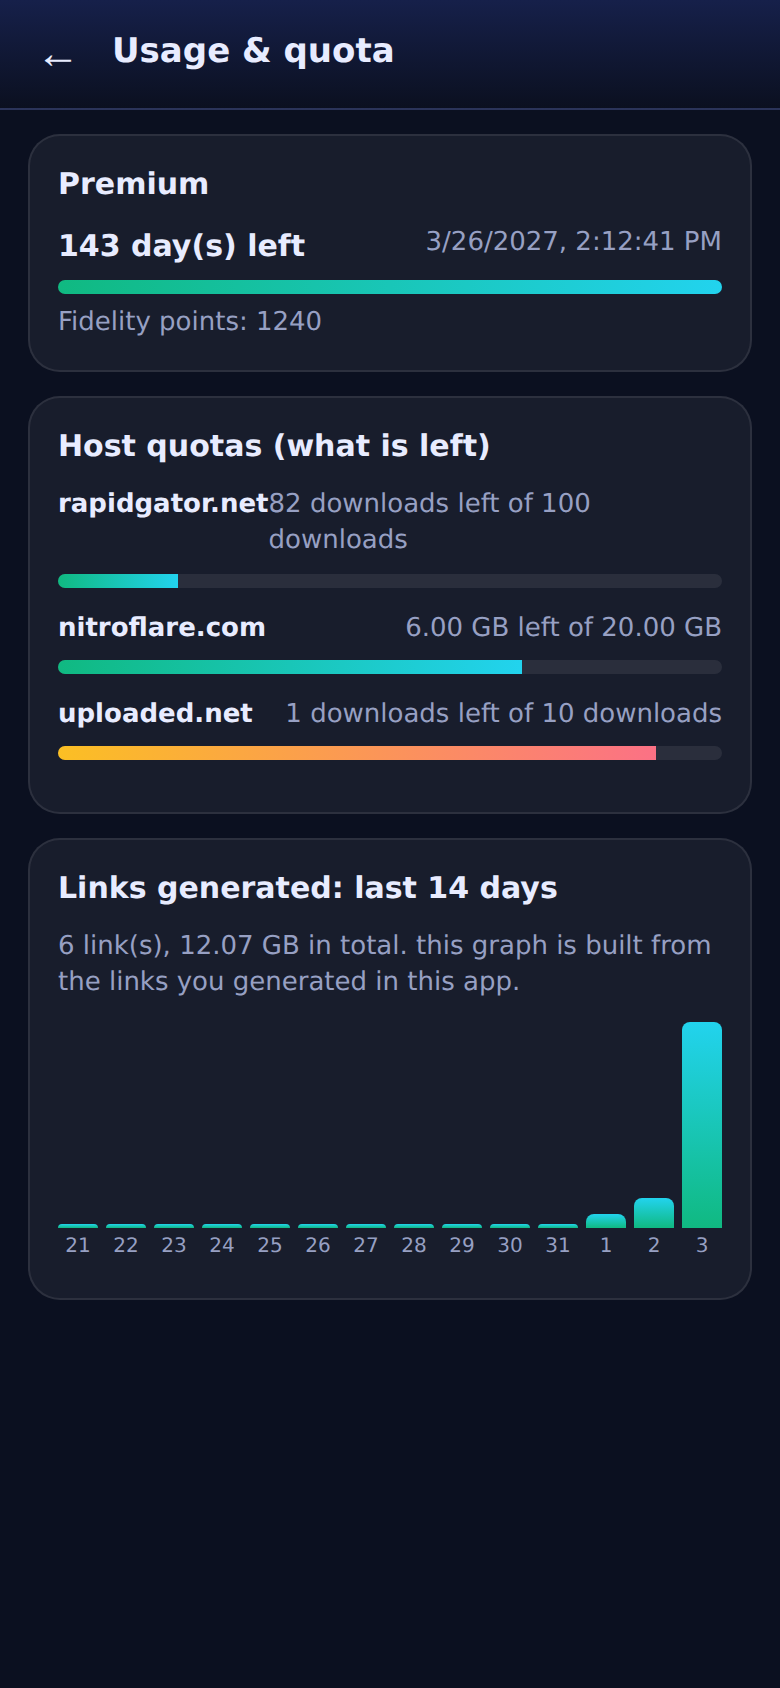
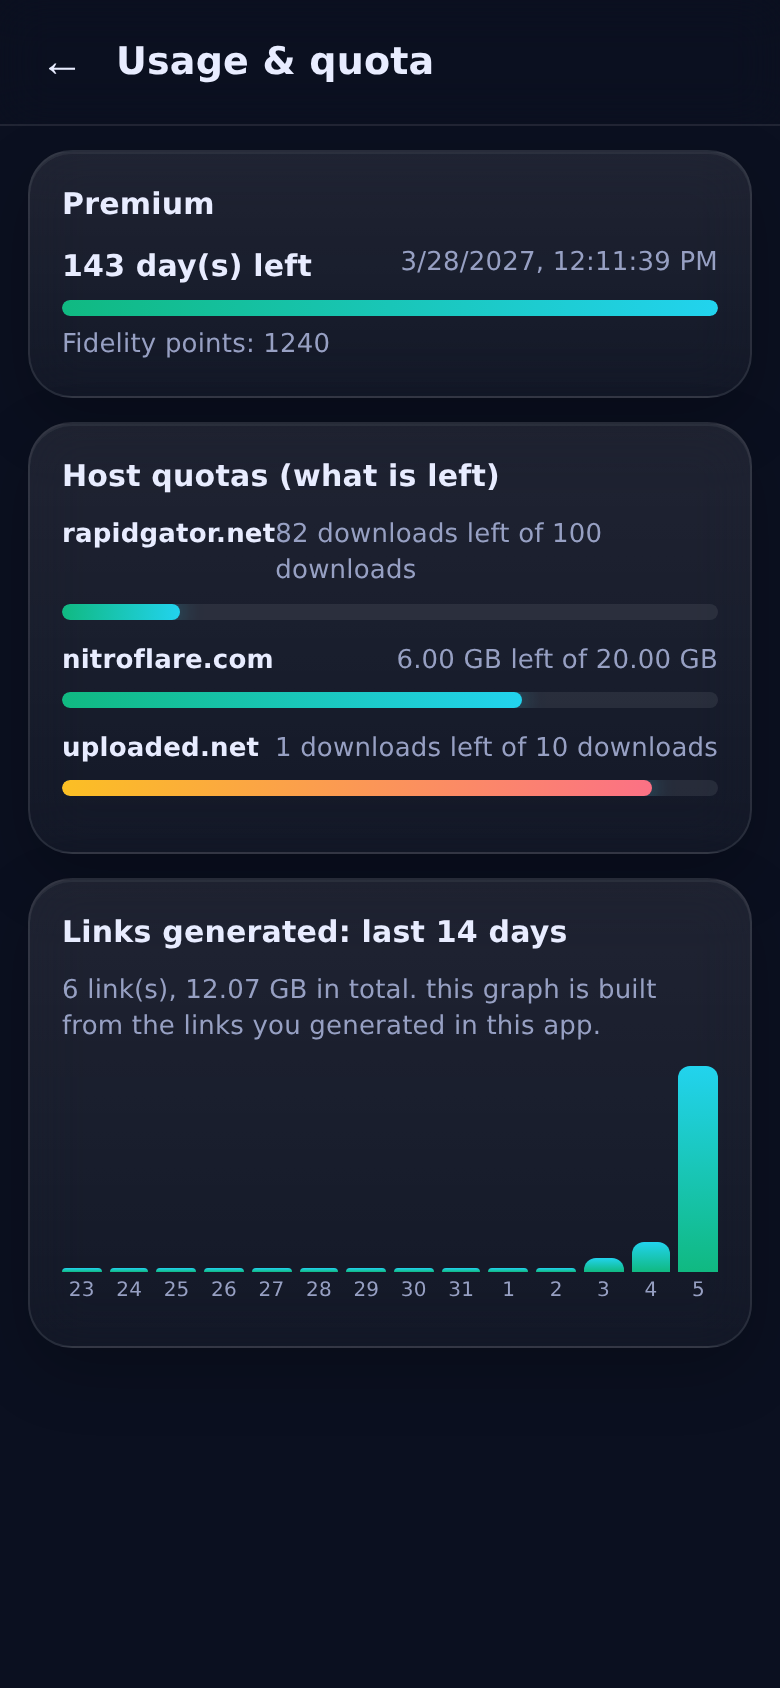
Add files via upload

diff --git a/app/src/main/assets/index.html b/app/src/main/assets/index.html
@@ -120,6 +120,73 @@ html.tv input:focus,html.tv textarea:focus,html.kbd input:focus,html.kbd textare
 html.tv #toast{font-size:17px;bottom:96px}
 html.tv .mbtn,html.tv .chip{min-height:44px}
 @media (min-width:900px){main,.ov-body{padding-left:max(14px,calc((100% - 900px)/2));padding-right:max(14px,calc((100% - 900px)/2))}.sbody{left:50%;right:auto;width:min(100%,640px);transform:translateX(-50%)}}
+
+/* =================== UI v2: modern glass look =================== */
+:root{--r:22px;--glass:linear-gradient(180deg,rgba(255,255,255,.085),rgba(255,255,255,.035));--glow:0 10px 28px rgba(16,185,129,.38)}
+:root[data-theme=light]{--glass:#fff;--glow:0 10px 24px rgba(5,150,105,.28)}
+html{background:var(--bg)}
+body{background:radial-gradient(800px 420px at 0% -8%,rgba(16,185,129,.20),transparent 60%),radial-gradient(700px 460px at 105% 0%,rgba(34,211,238,.15),transparent 60%),var(--bg);background-attachment:fixed;letter-spacing:.1px}
+:root[data-theme=light] body{background:radial-gradient(800px 420px at 0% -8%,rgba(16,185,129,.16),transparent 60%),radial-gradient(700px 460px at 105% 0%,rgba(34,211,238,.14),transparent 60%),var(--bg)}
+header{background:transparent;border:0;padding:16px 18px 4px;gap:12px}
+.logo{width:46px;height:46px;border-radius:14px;box-shadow:0 6px 18px rgba(16,185,129,.35)}
+header h1{font-size:21px;font-weight:800;letter-spacing:-.3px}
+header h1 small{font-size:11.5px;margin-top:1px}
+#themeBtn{background:var(--glass);border:1px solid var(--bd);border-radius:50%;width:40px;height:40px;padding:0;display:grid;place-items:center;font-size:18px}
+#keyBadge{background:var(--glass);font-weight:600;padding:9px 14px;border-radius:99px;box-shadow:var(--shadow)}
+main{padding:8px 16px 124px}
+.tab.on{animation:tabIn .32s cubic-bezier(.2,.8,.2,1)}
+@keyframes tabIn{from{opacity:0;transform:translateY(12px)}to{opacity:1;transform:none}}
+.hero{padding:10px 4px 16px}
+.hero h2{font-size:30px;font-weight:800;letter-spacing:-.8px;line-height:1.1;margin-bottom:6px}
+.card{background:var(--glass);border-radius:var(--r);padding:16px;border:1px solid var(--bd);box-shadow:0 12px 32px rgba(0,0,0,.22),inset 0 1px 0 rgba(255,255,255,.06);backdrop-filter:blur(14px);-webkit-backdrop-filter:blur(14px)}
+:root[data-theme=light] .card{box-shadow:0 8px 26px rgba(30,45,110,.09)}
+textarea,input[type=text],input[type=password],input:not([type]){border-radius:16px;padding:14px;border:1.5px solid var(--bd);transition:border-color .2s,box-shadow .2s}
+textarea{min-height:150px;border-style:dashed;line-height:1.5}
+textarea:focus,input:focus{border-color:var(--ac);box-shadow:0 0 0 4px rgba(16,185,129,.16)}
+.chip{border-radius:14px;min-height:40px;padding:8px 14px;font-weight:500;background:var(--glass);transition:background .2s,transform .1s}
+.chip.on{box-shadow:0 6px 16px rgba(16,185,129,.32);font-weight:700}
+.btn{border-radius:16px;padding:15px;background:var(--glass);transition:transform .1s}
+.btn.primary{font-size:16.5px;font-weight:800;letter-spacing:.3px;box-shadow:var(--glow);position:relative;overflow:hidden}
+.btn.primary:after{content:"";position:absolute;top:0;left:-60%;width:40%;height:100%;background:linear-gradient(100deg,transparent,rgba(255,255,255,.35),transparent);transform:skewX(-20deg);animation:shine 3.6s ease-in-out infinite}
+@keyframes shine{0%,60%{left:-60%}100%{left:130%}}
+#bGen{flex:2}
+.sw{font-size:14px;padding:6px 2px}
+.sw input{width:20px;height:20px;border-radius:6px}
+.item{border-radius:18px;padding:14px;gap:13px;background:var(--glass);border:1px solid var(--bd);animation:itemIn .35s both;transition:border-color .2s,background .2s}
+@keyframes itemIn{from{opacity:0;transform:translateY(10px)}to{opacity:1;transform:none}}
+.item:nth-child(2){animation-delay:.04s}.item:nth-child(3){animation-delay:.08s}.item:nth-child(4){animation-delay:.12s}.item:nth-child(5){animation-delay:.16s}
+.item .t{font-size:15.5px;font-weight:650;line-height:1.3}
+.item .s{margin-top:3px}
+.pill{font-weight:600;padding:3px 10px;font-size:11.5px}
+.bar{height:8px;border-radius:99px}
+.bar i{border-radius:99px;box-shadow:0 0 12px rgba(34,211,238,.45)}
+.mbtn{border-radius:12px;padding:10px 14px;font-weight:600;background:var(--glass)}
+/* More menu as tiles */
+#t-more.on{display:grid;grid-template-columns:1fr 1fr;gap:12px}
+#t-more .hero{grid-column:1/-1;padding-bottom:4px}
+.menu{flex-direction:column;align-items:flex-start;gap:14px;margin:0;padding:16px;border-radius:22px;background:var(--glass);min-height:138px;box-shadow:0 10px 26px rgba(0,0,0,.18)}
+.menu .ic{width:46px;height:46px;border-radius:15px;display:grid;place-items:center;font-size:23px;background:linear-gradient(135deg,rgba(16,185,129,.30),rgba(34,211,238,.22));border:1px solid rgba(34,211,238,.25)}
+.menu b{font-size:15px;margin-bottom:3px;line-height:1.2}
+.menu span:not(.ic){font-size:12px;line-height:1.3}
+/* floating pill navigation */
+nav{left:50%;right:auto;bottom:calc(12px + env(safe-area-inset-bottom));transform:translateX(-50%);width:min(560px,calc(100% - 24px));padding:6px;gap:2px;border:1px solid var(--bd);border-radius:28px;background:var(--nav);backdrop-filter:blur(22px);-webkit-backdrop-filter:blur(22px);box-shadow:0 14px 40px rgba(0,0,0,.45)}
+:root[data-theme=light] nav{box-shadow:0 12px 34px rgba(30,45,110,.20)}
+nav button{border-radius:22px;padding:8px 0 7px;font-weight:600;transition:background .25s,color .25s}
+nav button.on{background:linear-gradient(135deg,rgba(16,185,129,.28),rgba(34,211,238,.20));color:var(--ac2)}
+nav button.on svg{filter:drop-shadow(0 0 6px rgba(34,211,238,.6))}
+#toast{bottom:104px;border-radius:99px;padding:11px 20px;backdrop-filter:blur(14px)}
+.overlay{background:var(--bg)}
+.ov-head{padding:14px 10px;background:transparent;backdrop-filter:blur(12px)}
+.ov-head b{font-size:19px;font-weight:800}
+.actbar{border-radius:22px 22px 0 0;padding:12px 14px calc(12px + env(safe-area-inset-bottom))}
+.sbody{border-radius:30px 30px 0 0;padding:26px 18px 24px;box-shadow:0 -12px 40px rgba(0,0,0,.4)}
+.sbody:before{content:"";position:absolute;top:9px;left:50%;width:42px;height:5px;margin-left:-21px;border-radius:9px;background:var(--bd)}
+.krow{padding:11px 0}
+.vchart i{border-radius:6px 6px 0 0}
+html.tv nav{width:min(760px,calc(100% - 24px))}
+html.tv nav button{padding:12px 0 10px;font-size:13px}
+@media (min-width:900px){#t-more.on{grid-template-columns:repeat(3,1fr)}}
+@media (prefers-reduced-motion:reduce){*{animation:none!important;transition:none!important}}
 </style>
 </head>
 <body>

diff --git a/tools/make_screenshots.py b/tools/make_screenshots.py
@@ -83,7 +83,8 @@ with sync_playwright() as p:
     pg.evaluate("go('tor')"); pg.wait_for_selector("#tList .item", timeout=8000); pg.wait_for_timeout(400)
     pg.click("#tList .item >> nth=1"); pg.wait_for_timeout(300)
     snap(pg, "03-torrents.png")
-    pg.evaluate("go('more')"); pg.wait_for_timeout(300)
+    pg.evaluate("go('more')"); pg.wait_for_timeout(500)
+    snap(pg, "11-more.png")
     pg.click("[data-m=hosts]"); pg.wait_for_selector("#hsL .item", timeout=8000); pg.wait_for_timeout(300)
     snap(pg, "04-hosts.png")
     pg.click(".overlay.show [data-close]"); pg.wait_for_timeout(400)

diff --git a/README.md b/README.md
@@ -3,7 +3,7 @@
 <h1 align="center">Real-Debrid for Android &amp; Android TV</h1>
 
 <p align="center">
-  <a href="../../releases/latest"><img alt="Latest release" src="https://img.shields.io/github/v/release/paktigers/RealDebrid-App?label=download&color=10b981"></a>
+  <a href="../../releases/latest"><img alt="Latest release" src="https://img.shields.io/github/v/release/YOUR-USER/YOUR-REPO?label=download&color=10b981"></a>
   <img alt="Android 8.0+" src="https://img.shields.io/badge/Android-8.0%2B-3ddc84">
   <img alt="Android TV" src="https://img.shields.io/badge/Android%20TV-supported-22d3ee">
   <img alt="License MIT" src="https://img.shields.io/badge/license-MIT-blue">
@@ -39,7 +39,7 @@ The app appears in the TV launcher and is fully usable **with the remote only**:
 ## Other screens
 
 <p align="center">
-  <img src="docs/screenshots/06-login-code.png" width="22%"> 
+  <img src="docs/screenshots/11-more.png" width="22%"> 
   <img src="docs/screenshots/07-torrents-light.png" width="22%"> 
   <img src="docs/screenshots/08-tablet.png" width="50%">
 </p>
